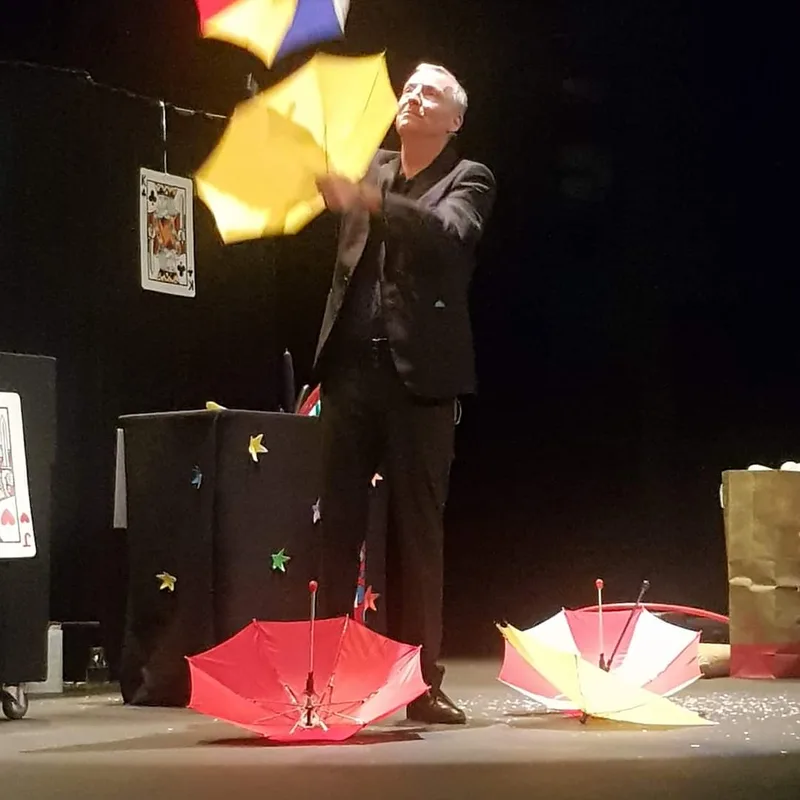
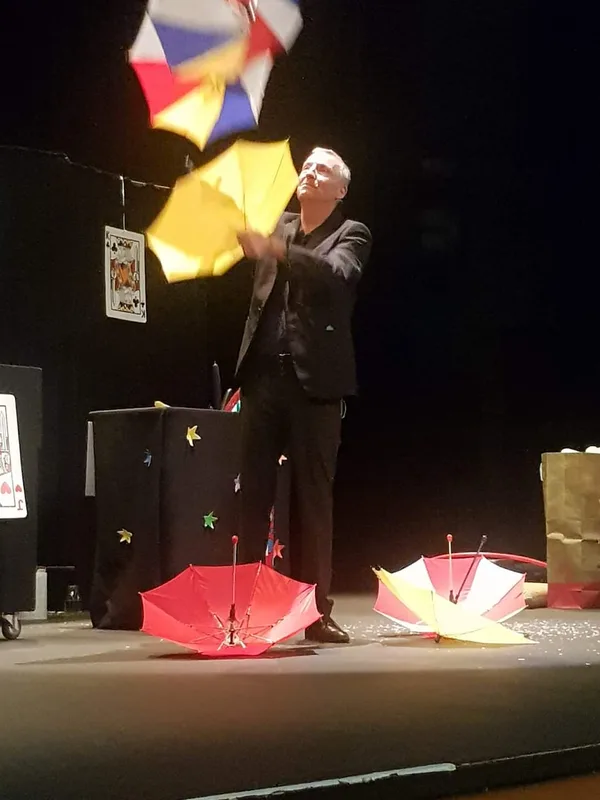
fix: photo hero ouverture — ratio 3:4 original conservé (plus de crop carré)

diff --git a/index.html b/index.html
@@ -318,7 +318,7 @@ footer .sign{font-style:italic;color:var(--or2);margin-top:10px}
  <div class="fan" id="fan" aria-hidden="true">
   <div class="pcard c1"><span class="pip tl p-blk">R<svg class="suit s-blk"><use href="#pique"/></svg></span><svg class="suit big s-blk"><use href="#pique"/></svg><span class="pip br p-blk">R<svg class="suit s-blk"><use href="#pique"/></svg></span></div>
   <div class="pcard c2"><span class="pip tl p-red">D<svg class="suit s-red"><use href="#coeur"/></svg></span><svg class="suit big s-red"><use href="#coeur"/></svg><span class="pip br p-red">D<svg class="suit s-red"><use href="#coeur"/></svg></span></div>
-  <div class="pcard c3 ace"><span class="pip tl">A<svg class="suit s-gold"><use href="#pique"/></svg></span><img src="images/francis-darcy-spectacle-ouverture.webp" alt="Francis Darcy sur scène, spectacle de magie avec parapluies colorés" width="800" height="800" fetchpriority="high"></div>
+  <div class="pcard c3 ace"><span class="pip tl">A<svg class="suit s-gold"><use href="#pique"/></svg></span><img src="images/francis-darcy-spectacle-ouverture.webp" alt="Francis Darcy sur scène, spectacle de magie avec parapluies colorés" width="600" height="800" fetchpriority="high"></div>
   <div class="pcard c4"><span class="pip tl p-red">V<svg class="suit s-red"><use href="#carreau"/></svg></span><svg class="suit big s-red"><use href="#carreau"/></svg><span class="pip br p-red">V<svg class="suit s-red"><use href="#carreau"/></svg></span></div>
   <div class="pcard c5"><span class="pip tl p-blk">10<svg class="suit s-blk"><use href="#trefle"/></svg></span><svg class="suit big s-blk"><use href="#trefle"/></svg><span class="pip br p-blk">10<svg class="suit s-blk"><use href="#trefle"/></svg></span></div>
  </div>
